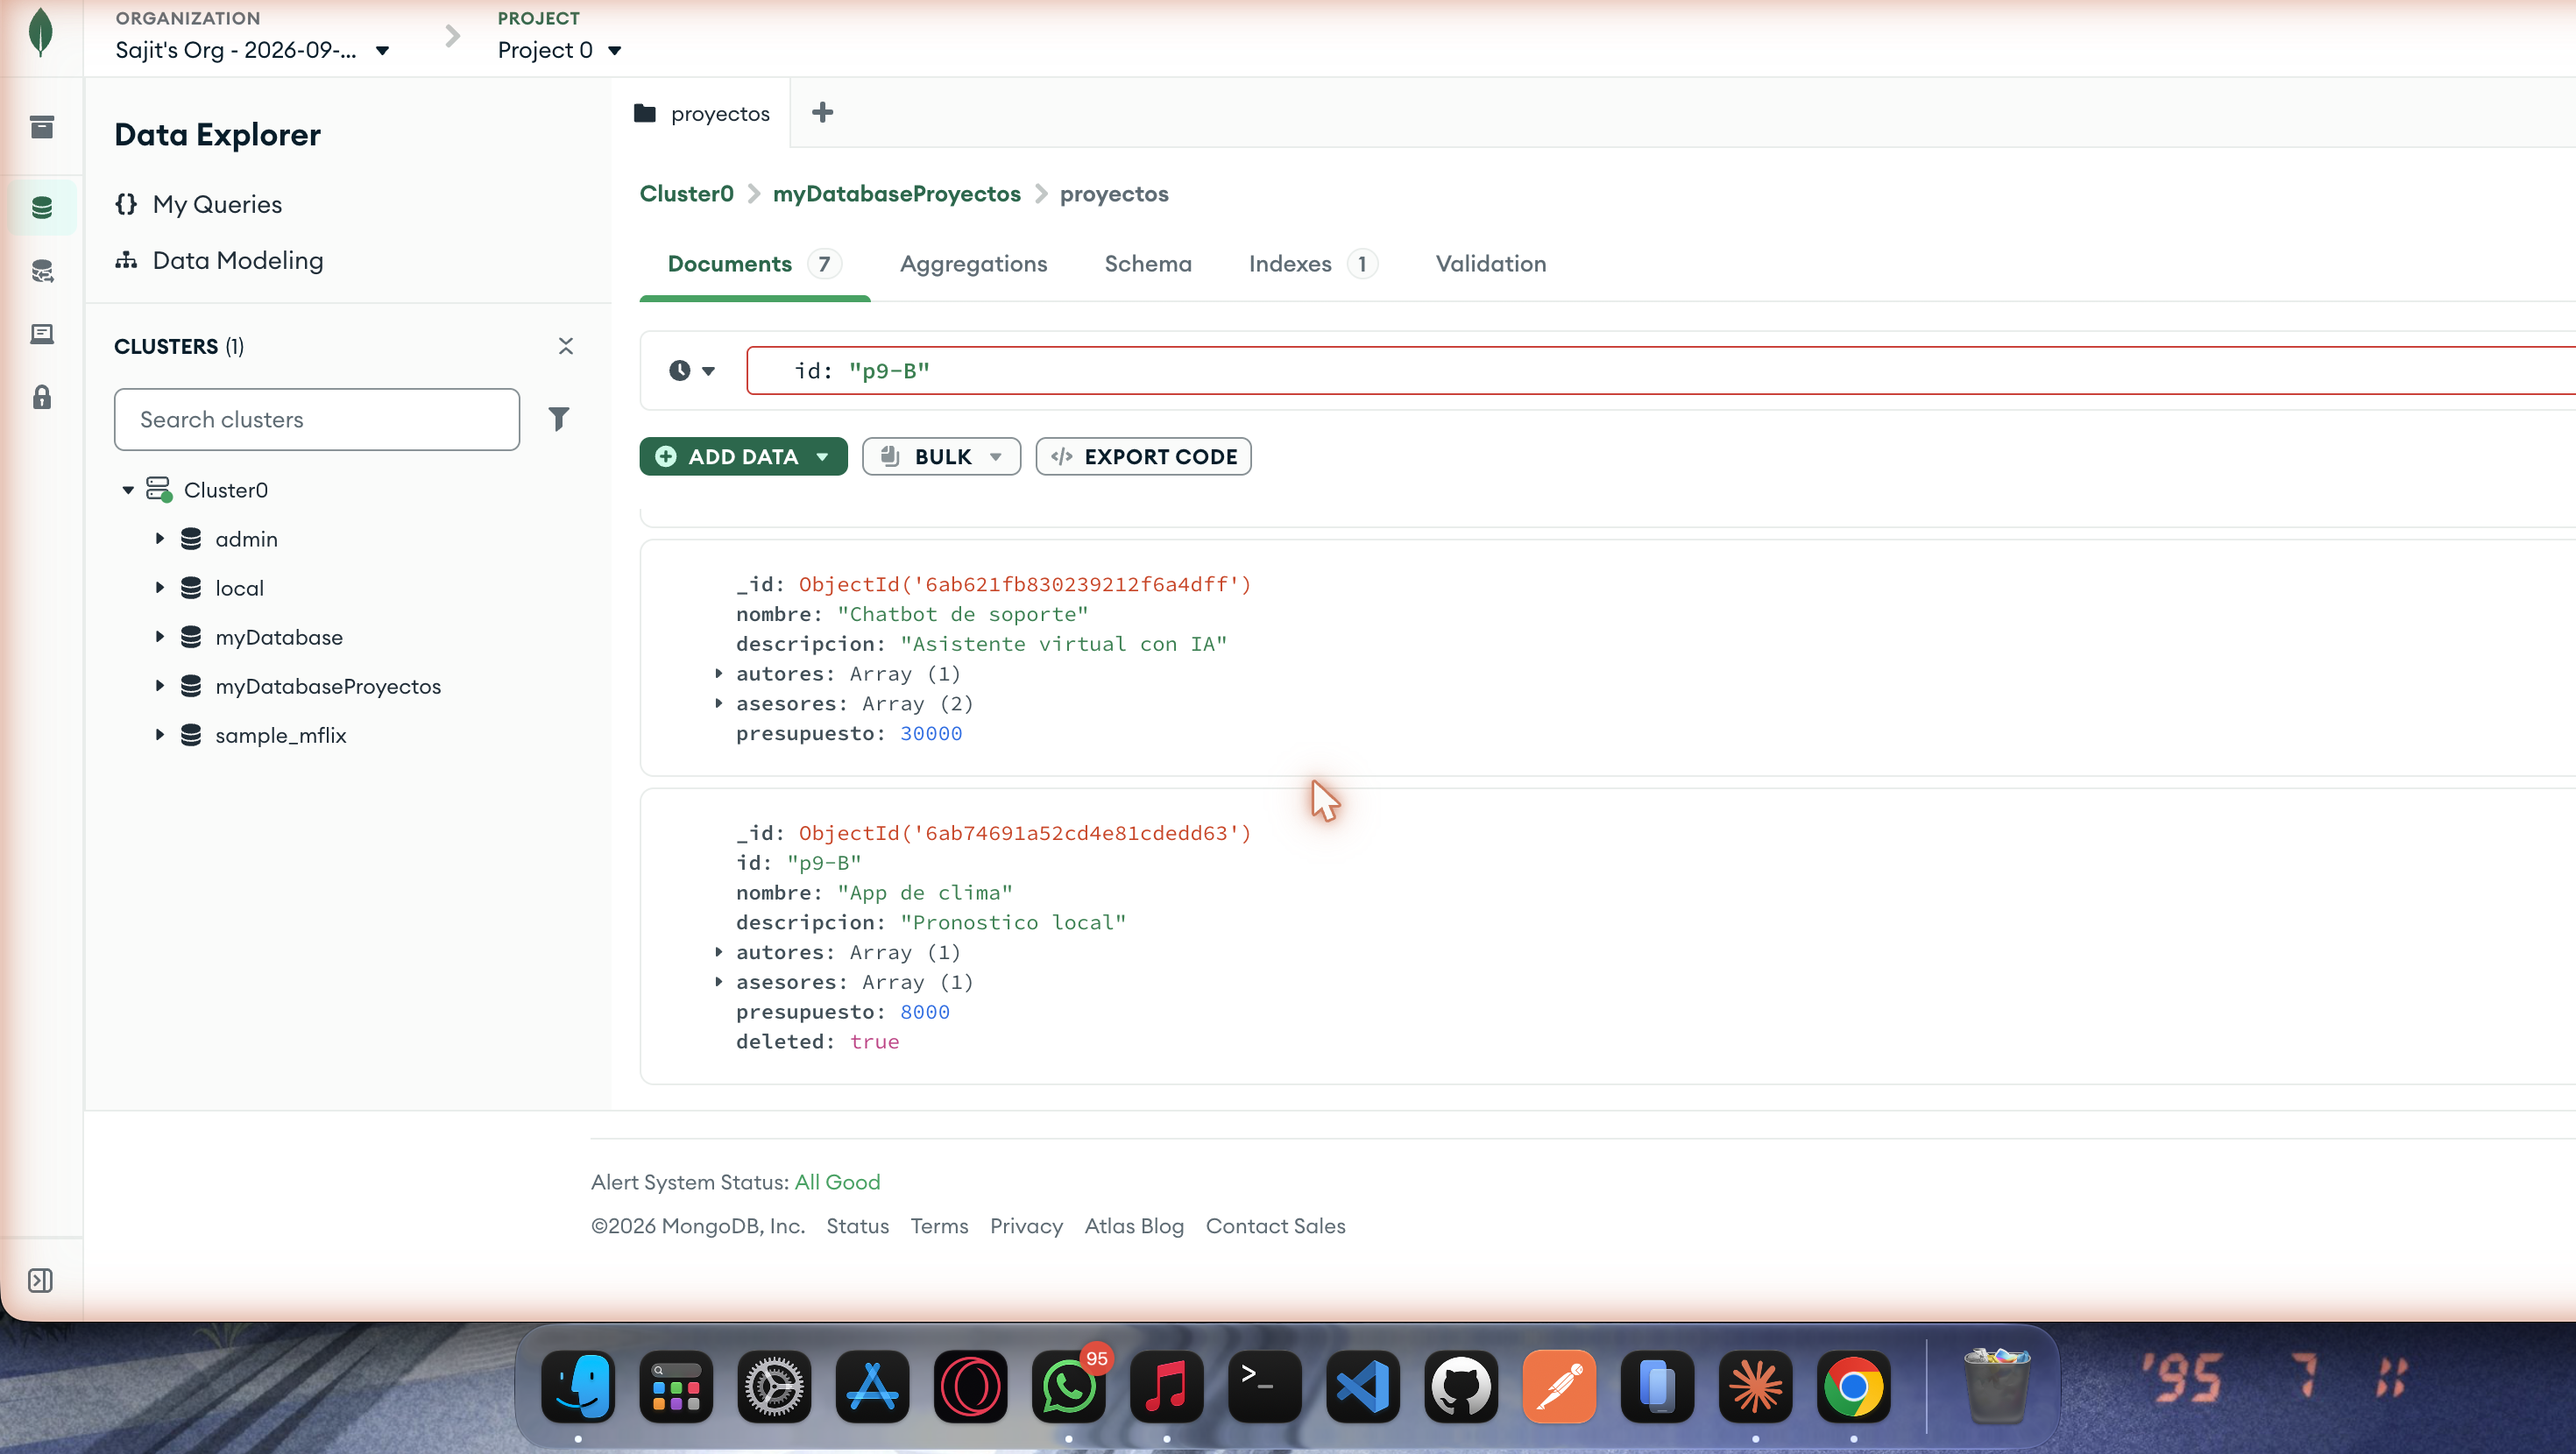
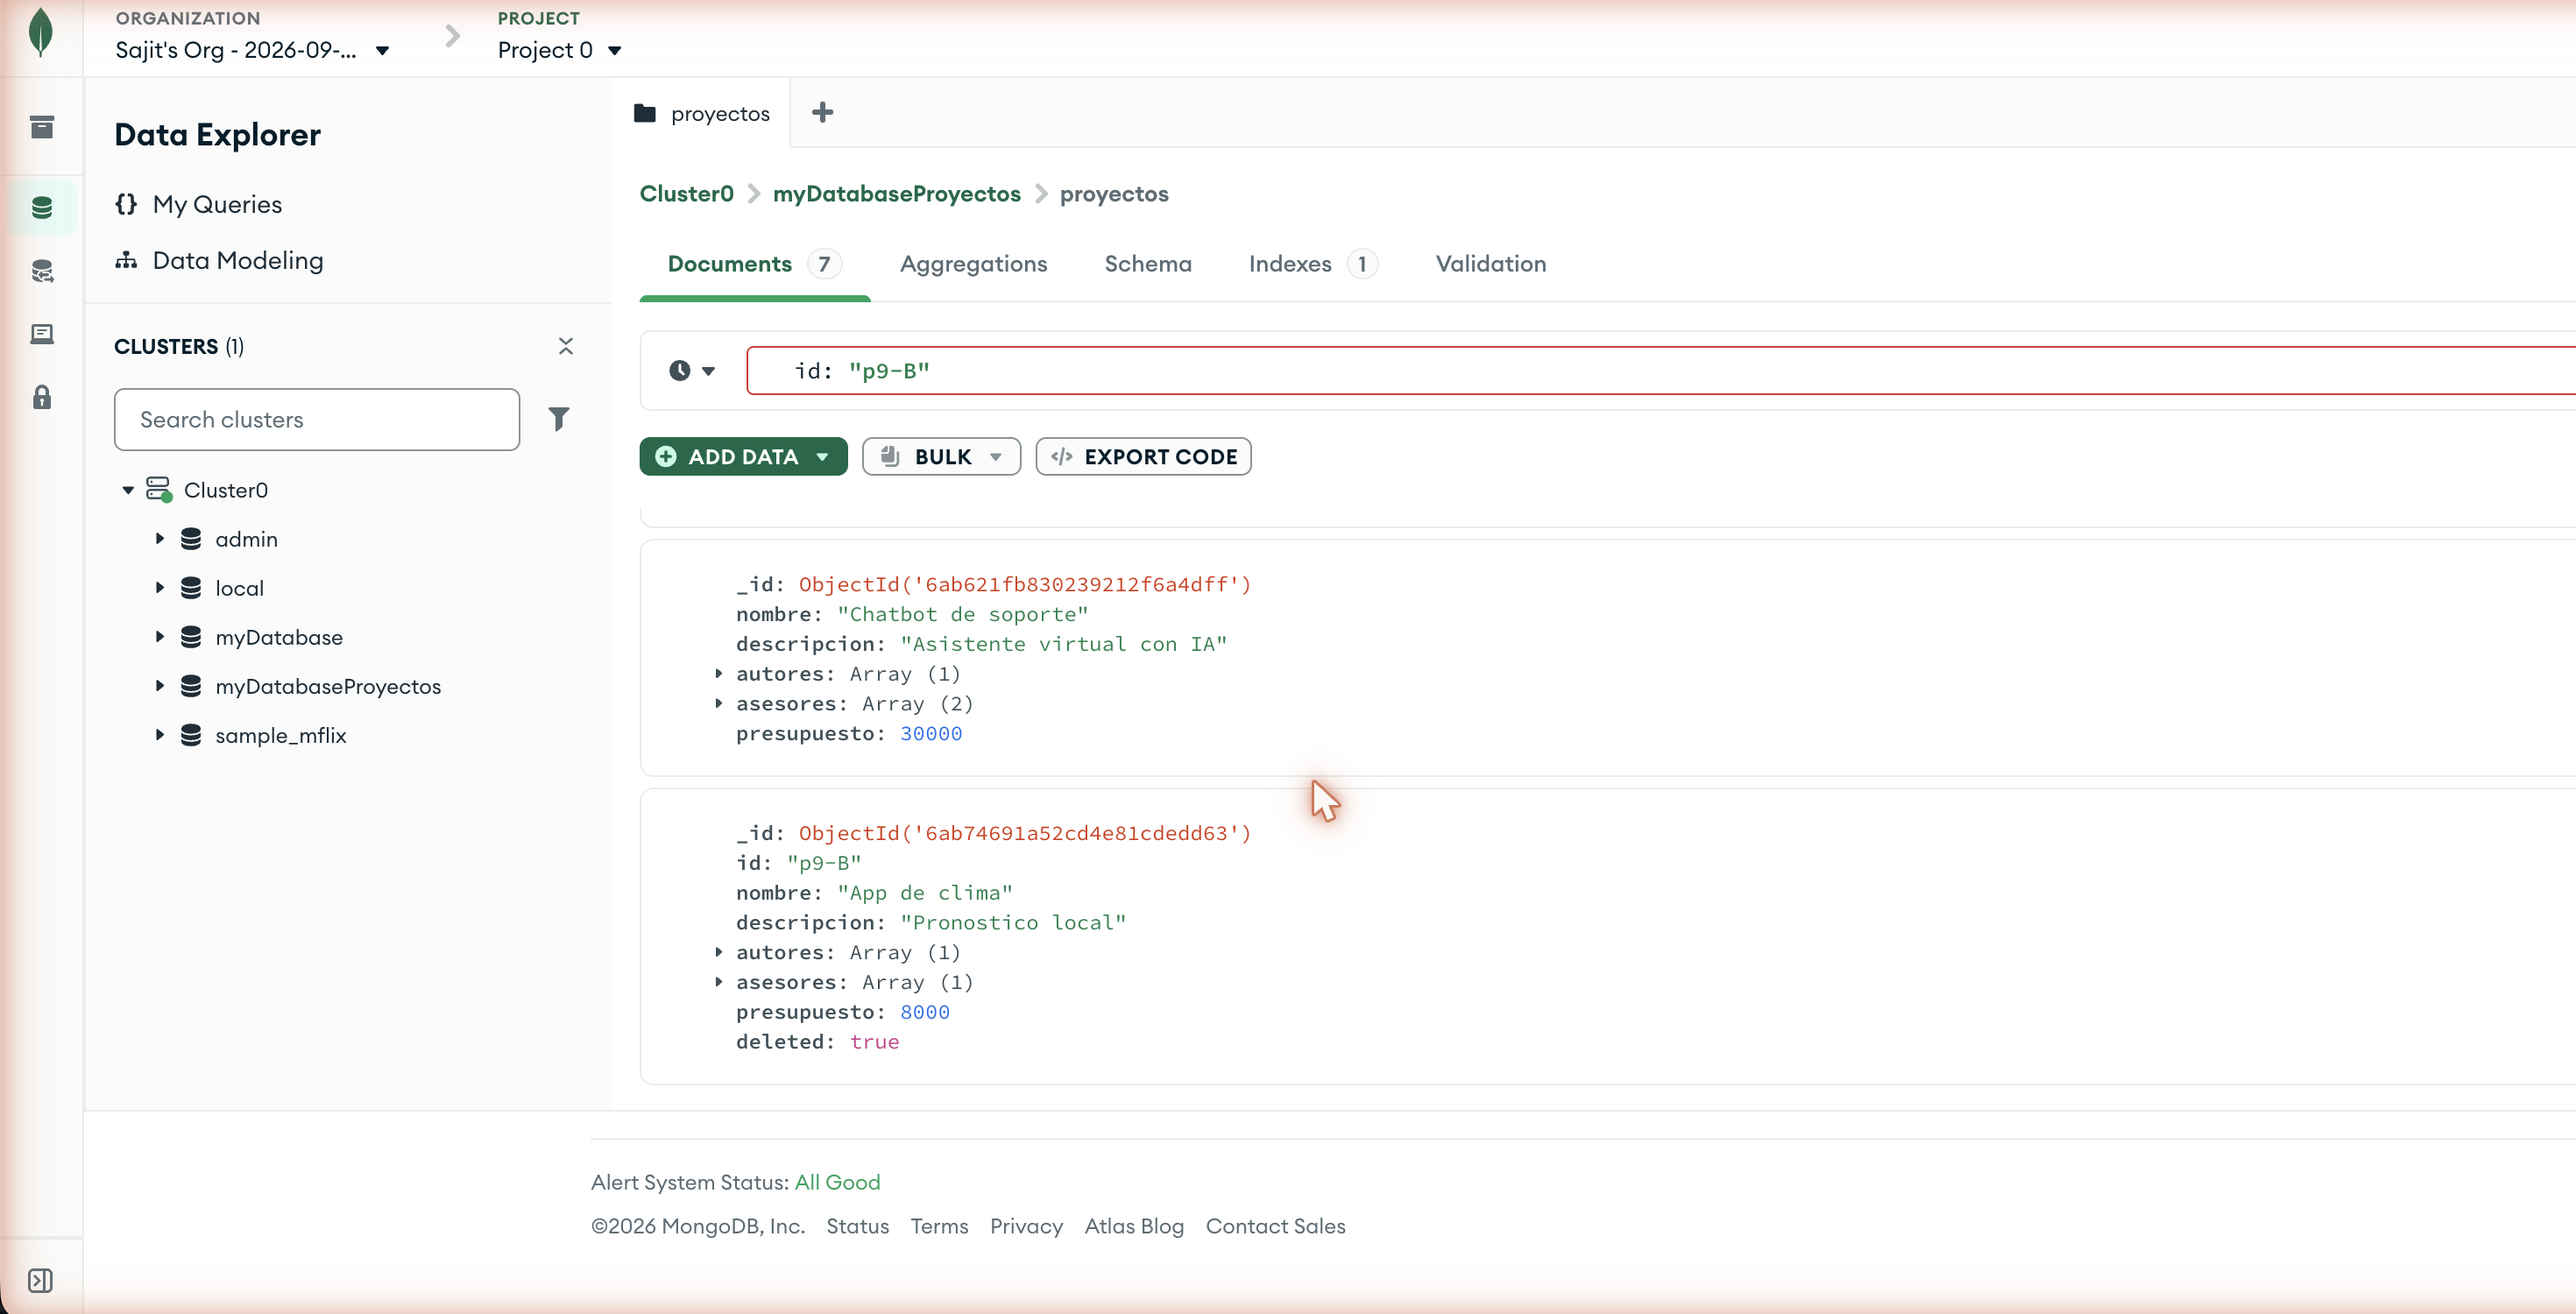
fix: corregir enlace roto de practica11 en README raíz y recortar capturas de Atlas restantes
- El README raíz enlazaba a practica11-login-2fa-pin (carpeta inexistente); se corrige a practica11-login-2fa.
- La captura de Atlas de la práctica 7 aún mostraba la barra de URL y pestañas del navegador.
- La captura de Atlas de la práctica 9 mostraba el Dock de macOS en la parte inferior.

diff --git a/README.md b/README.md
@@ -28,7 +28,7 @@ Este repositorio funciona como evidencia de aprendizaje y evolución técnica du
 | 8 | Insertar proyectos | [`practica08-insertar-proyectos`](./practica08-insertar-proyectos) | Express, MongoDB | Inserción dinámica de proyectos a partir del body del request. |
 | 9 | CRUD con borrado lógico | [`practica09-crud-proyectos`](./practica09-crud-proyectos) | Express, MongoDB | CRUD completo distinguiendo borrado físico y borrado lógico. |
 | 10 | Usuarios y login | [`practica10-usuarios-login`](./practica10-usuarios-login) | Express, MongoDB, crypto | CRUD de usuarios con contraseña cifrada (SHA-256) y servicio de login. |
-| 11 | Login en dos pasos con PIN | [`practica11-login-2fa-pin`](./practica11-login-2fa-pin) | Express, MongoDB, Nodemailer | Segundo factor de autenticación con PIN enviado por correo. |
+| 11 | Login en dos pasos con PIN | [`practica11-login-2fa`](./practica11-login-2fa) | Express, MongoDB, Nodemailer | Segundo factor de autenticación con PIN enviado por correo. |
 | 12 | Primera app de React | [`practica12-react-vite`](./practica12-react-vite) | React, Vite | Primer proyecto de React creado con Vite. |
 
 ---
